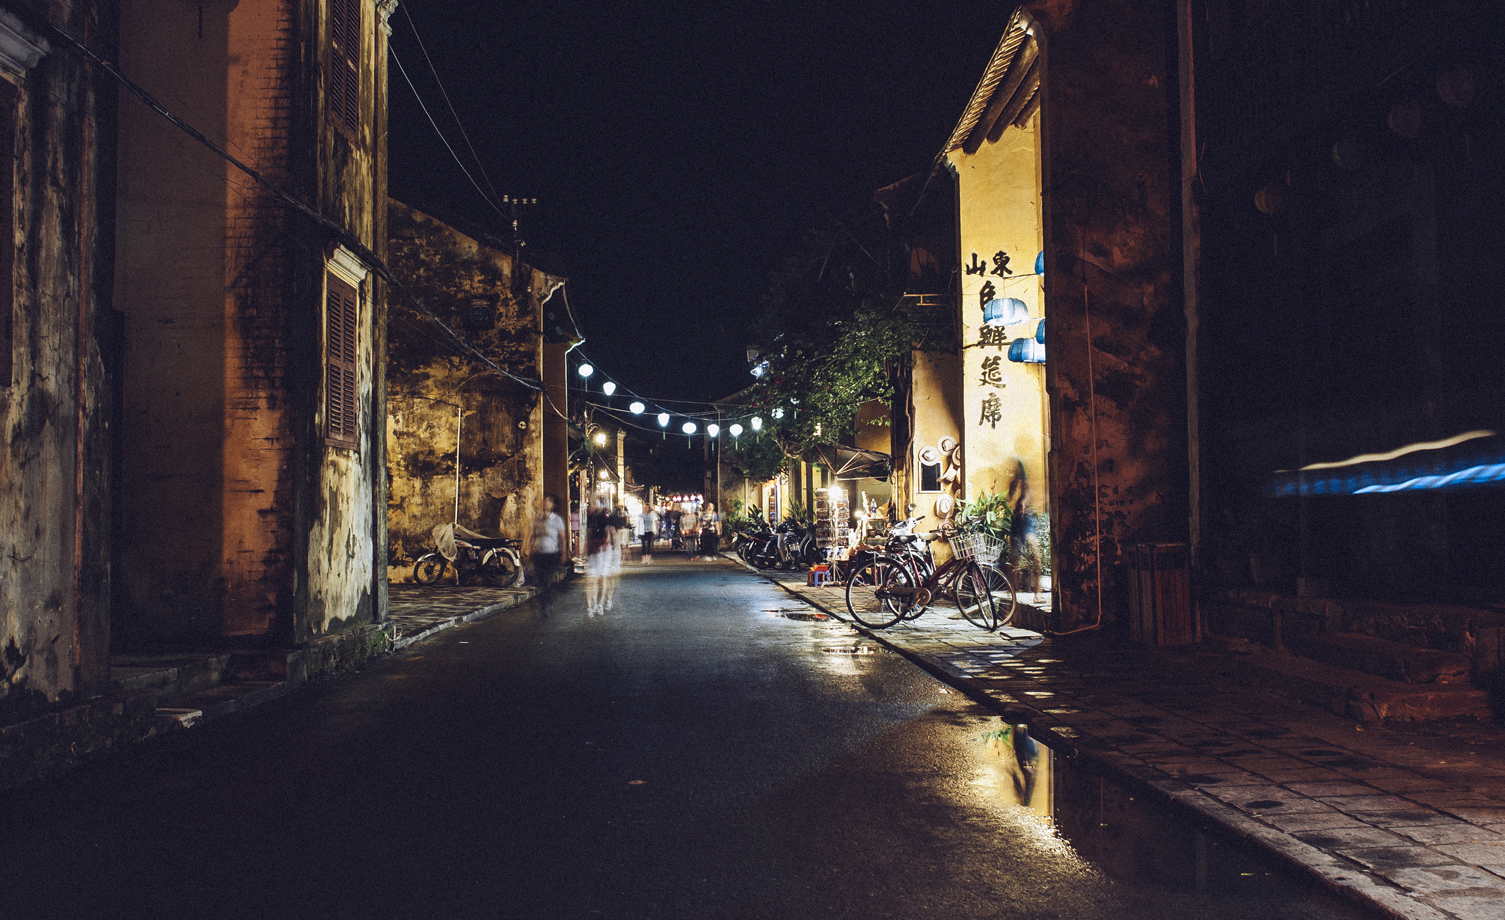
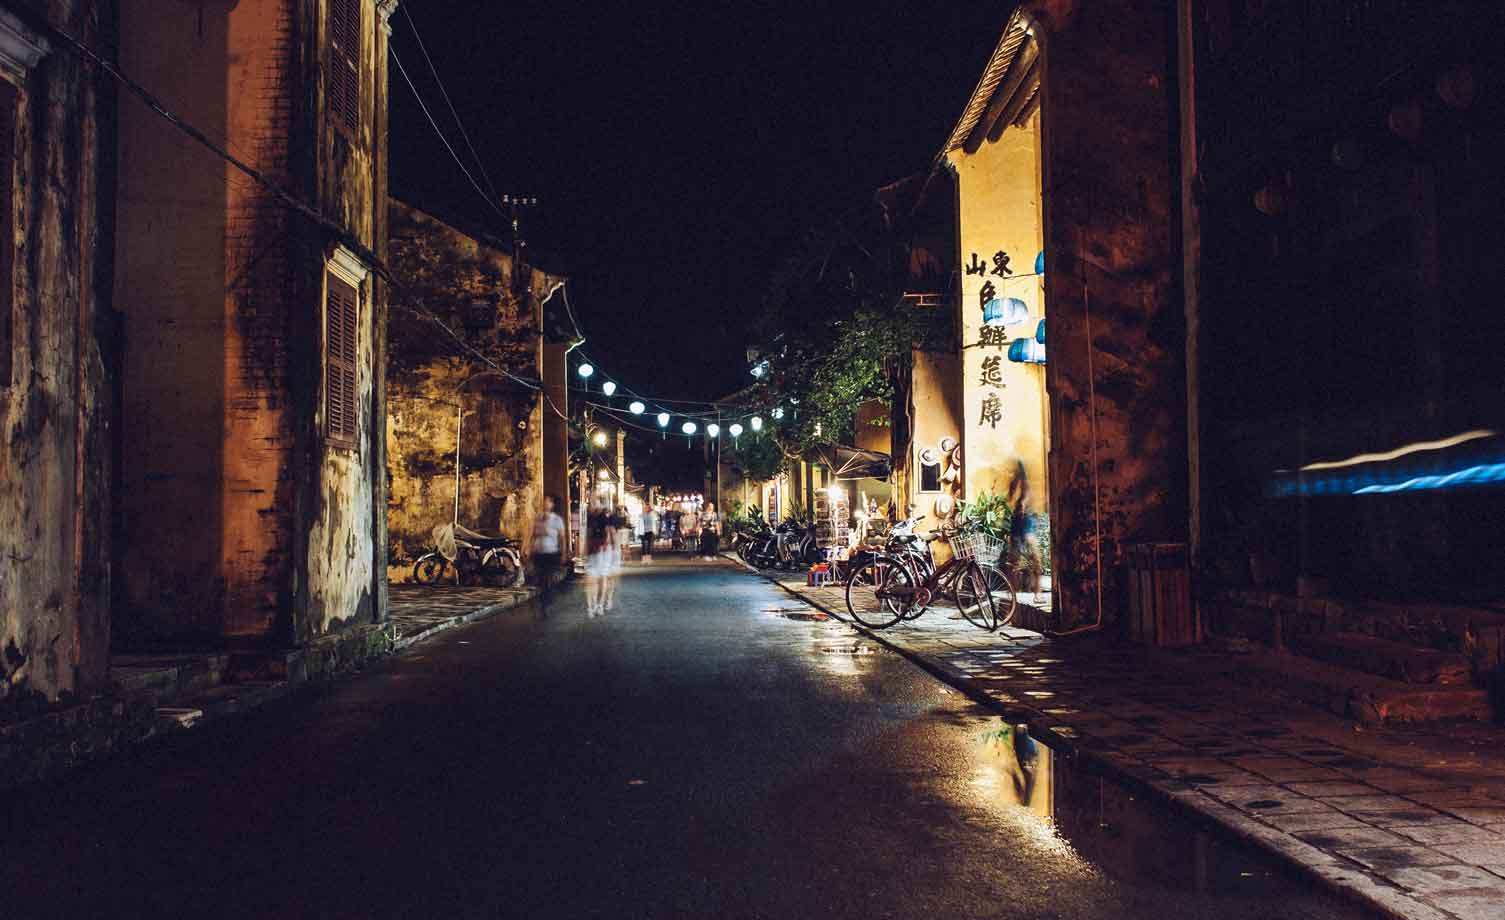
Fix footer markup and styling, change out images for compressed version

diff --git a/styles/style.css b/styles/style.css
@@ -1,1 +1,1 @@
-hr,input[type=search]{box-sizing:content-box}a,a:hover,body{color:#444}.wrapper,sub,sup{position:relative}.header,footer{background:#000}a,footer .icon,h2.titletag{transition:all .2s}*,:after,:before{box-sizing:border-box;-webkit-font-smoothing:antialiased;font-smoothing:antialiased;text-rendering:optimizeLegibility}.clearfix:after{visibility:hidden;display:block;font-size:0;content:" ";clear:both;height:0}* html .clearfix{zoom:1}html{font-family:sans-serif;-ms-text-size-adjust:100%;-webkit-text-size-adjust:100%}article,aside,details,figcaption,figure,footer,header,hgroup,main,nav,section,summary{display:block}audio,canvas,progress,video{display:inline-block;vertical-align:baseline}audio:not([controls]){display:none;height:0}[hidden],template{display:none}a{background:0 0;text-decoration:none}abbr[title]{border-bottom:1px dotted}dfn{font-style:italic}h1{font-size:2em;margin:.67em 0}mark{background:#ff0;color:#000}small{font-size:80%}sub,sup{font-size:75%;line-height:0;vertical-align:baseline}sup{top:-.5em}sub{bottom:-.25em}img{border:0}svg:not(:root){overflow:hidden}figure{margin:1em 40px}hr{height:0}code,kbd,pre,samp{font-family:monospace,monospace;font-size:1em}button,input,optgroup,select,textarea{color:inherit;font:inherit;margin:0}.nav li a,b,optgroup,strong{font-weight:700}.authorinfo,.nav,body,footer,h1.pagetitle{font-family:Lato,Helvetica,Arial,sans-serif}button{overflow:visible}button,select{text-transform:none}.banner .titlebox,.header,footer h2.contact,h2.featuredtitle{text-transform:uppercase}button,html input[type=button],input[type=reset],input[type=submit]{-webkit-appearance:button;cursor:pointer}button[disabled],html input[disabled]{cursor:default}input{line-height:normal}input[type=checkbox],input[type=radio]{box-sizing:border-box;padding:0}input[type=number]::-webkit-inner-spin-button,input[type=number]::-webkit-outer-spin-button{height:auto}input[type=search]{-webkit-appearance:textfield}input[type=search]::-webkit-search-cancel-button,input[type=search]::-webkit-search-decoration{-webkit-appearance:none}fieldset{border:1px solid silver;margin:0 2px;padding:.35em .625em .75em}table{border-collapse:collapse;border-spacing:0}td,th{padding:0}pre,textarea{overflow:auto}button::-moz-focus-inner,input::-moz-focus-inner,legend{border:0;padding:0}html{font-size:16px}body{margin:0}.clear:after,.clear:before{content:' ';display:table}.clear:after{clear:both}.clear{*zoom:1}.header,h2.titletag a{color:#fff}a:focus{outline:1px}a:active,a:hover{outline:0}input:focus{outline:0;border:1px solid #04A4CC}.wrapper{max-width:900px;width:95%;margin:0 auto;padding:0 10px}.header{position:fixed;top:0;z-index:500;width:100%;box-shadow:0 3px 15px rgba(0,0,0,.7)}.logo{width:20%;float:left;text-align:center}h2.titletag{font-size:25px;color:#fff;letter-spacing:-1px}h2.titletag a:focus,h2.titletag a:hover{color:#f1c40f}.nav{float:right}.nav ul{margin:0;padding:0}.nav li{padding-top:27px;margin:0;display:inline-block}.nav li a{font-size:20px;color:#fff;padding:20px}.nav li a:focus,.nav li a:hover{border-bottom:5px solid #902b15}h2.menubutton{display:none}footer{clear:both;border-top:10px solid #902b15;color:#fff;text-align:right}footer h2.contact{font-size:22px;text-align:left;margin:10px 0 0}footer .socialicons{width:40%;float:left;padding:25px 0}footer .icon{width:45px;height:45px;float:left;margin-right:10px;border-radius:50%;position:relative;bottom:0}footer .github{background:url(../img/icons/github.png);background-size:contain}footer .twitter{background:url(../img/icons/twitter.svg);background-size:contain}footer .linkedin{background:url(../img/icons/linkedin.svg) center}footer a:focus .icon,footer a:hover .icon{bottom:10px}footer p.email{padding:25px 0 45px;margin:0;font-size:26px}footer p.email a{color:#f1c40f;font-weight:700}footer p.email a:focus,footer p.email a:hover{border-bottom:3px solid #fff}h1.blogtitle{padding-top:100px;border-bottom:2px solid rgba(0,0,0,.3);font-size:60px}.blogposts{padding-bottom:50px}.authorinfo a,.postinfo a{line-height:37.5px;border-bottom:2px solid #902b15}.authorinfo a :focus,.authorinfo a:hover,.postinfo a :focus,.postinfo a:hover{border-bottom:2px solid #f1c40f}.authorinfo{font-size:18px}.section{margin-bottom:20px}main.contenthere{background:url(../img/whiteWall.png)}h1.pagetitle{padding:120px 0 20px;border-bottom:2px solid rgba(0,0,0,.3);font-size:60px}article.homepage,article.post{font-family:Garamond,Baskerville,"Baskerville Old Face","Hoefler Text","Times New Roman",serif}article.post{color:#333;font-size:22px;line-height:30px}article.post img{display:block;margin:0 auto}.banner{background:url(../img/chinatown.jpg) center no-repeat fixed #fff;background-size:cover;padding-top:250px;padding-bottom:150px;width:100%}.banner .titlebox{width:500px;margin:0 auto;text-align:center;color:#fff;text-shadow:2px 2px 0 #333}.banner .titlebox h1{margin-top:0;padding-top:40px;letter-spacing:-1px;font-size:45px}.banner .titlebox h3{margin:0;padding:0 20px 50px;font-size:20px}p.headline{margin:0 0 70px;padding:60px 0;font-size:60px;font-weight:900;border-bottom:2px solid rgba(0,0,0,.1)}article.homepage{padding:0;margin:0;font-size:25px;font-weight:500;line-height:40px;clear:both}article.homepage a{border-bottom:2px solid transparent}article.homepage a:focus,article.homepage a:hover{border-bottom:2px solid #902b15}article.homepage p a{border-bottom:2px solid rgba(0,0,0,.2)}.featuredwork{padding:70px 0;font-family:Lato,Helvetica,Arial,sans-serif;border-top:2px solid rgba(0,0,0,.1)}h2.featuredtitle{margin:0;padding:15px 0;font-size:25px;letter-spacing:7px;text-align:center;color:#333}.portfolio__item img{margin-bottom:20px;box-shadow:0 0 10px rgba(0,0,0,.3)}.portfolio__item ul.description{list-style:none;margin:0;padding:0;font-size:12px;line-height:18px}.portfolio__item ul.description li:nth-of-type(2){font-weight:700}.portfolio__item .technology{color:#902b15}.secondproject{margin:0 5%}p.description{font-weight:700;font-size:26px}.singleblog{padding:100px 0 40px}.singleblog h1{line-height:1}.singleblog h1 a{border-bottom:2px solid transparent}.singleblog a{border-bottom:2px solid #902b15}.singleblog a:focus,.singleblog a:hover{border-bottom:2px solid #f1c40f}.singleblog br{display:none}img{vertical-align:bottom;max-width:100%}@media only screen and (max-width:768px){.logo,.nav,.wrapper{width:100%}article.post,footer,main.contenthere{padding:10px}header{padding-bottom:10px}.nav li,.nav li a{padding:15px}.logo h2{font-size:30px}.nav{clear:both;background:rgba(0,0,0,.8);position:absolute;top:96px;display:none;margin:0 auto;transition:all .2s}.nav ul{text-align:center}.nav li{display:block;border-top:1px solid grey}.nav li a:hover{border-bottom:0 solid red}h2.menubutton{display:block;position:absolute;font-size:40px;padding:0;margin:0;top:18px;right:15px}h2.menubutton a{text-decoration:none;color:#f1c40f}.portfolio__item{margin-bottom:20px}.portfolio__item:nth-of-type(2),.portfolio__item:nth-of-type(3){margin-bottom:0}}@media only screen and (max-width:480px){.banner{padding-top:100px;padding-bottom:40px}.banner .titlebox{width:100%}.banner .titlebox h1{font-size:35px}.banner .titlebox h3{font-size:16px}p.headline{font-size:40px}article.homepage{font-size:20px;line-height:30px}div.third{width:100%;margin:0 0 20px}h1.pagetitle{font-size:40px}p.description{font-size:20px}h1.blogtitle{font-size:40px}h2.postinfo{font-size:25px}h3.authorinfo{font-size:16px}article.post{font-size:20px}footer .socialicons{width:100%;margin:0 auto}footer p.email{width:100%;text-align:center;padding:15px;clear:both}}::selection{background:#04A4CC;color:#FFF;text-shadow:none}::-webkit-selection{background:#04A4CC;color:#FFF;text-shadow:none}::-moz-selection{background:#04A4CC;color:#FFF;text-shadow:none}.alignnone{margin:5px 20px 20px 0}.aligncenter,div.aligncenter{display:block;margin:5px auto}.alignright{float:right;margin:5px 0 20px 20px}.alignleft{float:left;margin:5px 20px 20px 0}a img.alignright{float:right;margin:5px 0 20px 20px}a img.alignleft,a img.alignnone{margin:5px 20px 20px 0}a img.alignleft{float:left}a img.aligncenter{display:block;margin-left:auto;margin-right:auto}.wp-caption{background:#FFF;border:1px solid #F0F0F0;max-width:96%;padding:5px 3px 10px;text-align:center}.wp-caption.alignleft,.wp-caption.alignnone{margin:5px 20px 20px 0}.wp-caption.alignright{margin:5px 0 20px 20px}.wp-caption img{border:0;height:auto;margin:0;max-width:98.5%;padding:0;width:auto}.gallery-caption,.wp-caption .wp-caption-text{font-size:11px;line-height:17px;margin:0;padding:0 4px 5px}
+hr,input[type=search]{box-sizing:content-box}a,a:hover,body{color:#444}.wrapper,sub,sup{position:relative}a,h2.titletag{transition:all .2s}.header,footer{background:#000}*,:after,:before{box-sizing:border-box;-webkit-font-smoothing:antialiased;font-smoothing:antialiased;text-rendering:optimizeLegibility}.clearfix:after{visibility:hidden;display:block;font-size:0;content:" ";clear:both;height:0}* html .clearfix{zoom:1}html{font-family:sans-serif;-ms-text-size-adjust:100%;-webkit-text-size-adjust:100%}article,aside,details,figcaption,figure,footer,header,hgroup,main,nav,section,summary{display:block}audio,canvas,progress,video{display:inline-block;vertical-align:baseline}audio:not([controls]){display:none;height:0}[hidden],template{display:none}a{background:0 0;text-decoration:none}abbr[title]{border-bottom:1px dotted}dfn{font-style:italic}h1{font-size:2em;margin:.67em 0}mark{background:#ff0;color:#000}small{font-size:80%}sub,sup{font-size:75%;line-height:0;vertical-align:baseline}sup{top:-.5em}sub{bottom:-.25em}img{border:0}svg:not(:root){overflow:hidden}figure{margin:1em 40px}hr{height:0}code,kbd,pre,samp{font-family:monospace,monospace;font-size:1em}button,input,optgroup,select,textarea{color:inherit;font:inherit;margin:0}.nav li a,b,footer .email a,optgroup,strong{font-weight:700}.authorinfo,.nav,body,footer,h1.pagetitle{font-family:Lato,Helvetica,Arial,sans-serif}button{overflow:visible}button,select{text-transform:none}.banner .titlebox,.header,footer h2.contact,h2.featuredtitle{text-transform:uppercase}button,html input[type=button],input[type=reset],input[type=submit]{-webkit-appearance:button;cursor:pointer}button[disabled],html input[disabled]{cursor:default}input{line-height:normal}input[type=checkbox],input[type=radio]{box-sizing:border-box;padding:0}input[type=number]::-webkit-inner-spin-button,input[type=number]::-webkit-outer-spin-button{height:auto}input[type=search]{-webkit-appearance:textfield}input[type=search]::-webkit-search-cancel-button,input[type=search]::-webkit-search-decoration{-webkit-appearance:none}fieldset{border:1px solid silver;margin:0 2px;padding:.35em .625em .75em}table{border-collapse:collapse;border-spacing:0}td,th{padding:0}pre,textarea{overflow:auto}button::-moz-focus-inner,input::-moz-focus-inner,legend{border:0;padding:0}html{font-size:16px}body{margin:0}.clear:after,.clear:before{content:' ';display:table}.clear:after{clear:both}.clear{*zoom:1}.header,h2.titletag a{color:#fff}a:focus{outline:1px}a:active,a:hover{outline:0}input:focus{outline:0;border:1px solid #04A4CC}.wrapper{max-width:900px;width:95%;margin:0 auto;padding:0 10px}.header{position:fixed;top:0;z-index:500;width:100%;box-shadow:0 3px 15px rgba(0,0,0,.7)}.logo{width:20%;float:left;text-align:center}h2.titletag{font-size:25px;color:#fff;letter-spacing:-1px}h2.titletag a:focus,h2.titletag a:hover{color:#f1c40f}.nav{float:right}.nav ul{margin:0;padding:0}.nav li{padding-top:27px;margin:0;display:inline-block}.nav li a{font-size:20px;color:#fff;padding:20px}.nav li a:focus,.nav li a:hover{border-bottom:5px solid #902b15}h2.menubutton{display:none}footer .icon,footer .social__icon{display:inline-block}footer{clear:both;border-top:10px solid #902b15;color:#fff;text-align:right}footer h2.contact{font-size:22px;text-align:left;margin:10px 0 0}footer .email{padding-bottom:45px;font-size:26px;text-align:left}footer .email a{color:#f1c40f}footer .email a:focus,footer .email a:hover{border-bottom:3px solid #fff}footer .socialicons{padding:25px 0;text-align:right}footer .icon{width:45px;height:45px;margin-right:10px;border-radius:50%}footer .icon:focus,footer .icon:hover{box-shadow:10px 5px #902b15}footer .github{background:url(../img/icons/github.png);background-size:contain}footer .twitter{background:url(../img/icons/twitter.svg);background-size:contain}footer .linkedin{background:url(../img/icons/linkedin.svg) center}footer a:focus .icon,footer a:hover .icon{bottom:10px}h1.blogtitle{padding-top:100px;border-bottom:2px solid rgba(0,0,0,.3);font-size:60px}.blogposts{padding-bottom:50px}.authorinfo a,.postinfo a{line-height:37.5px;border-bottom:2px solid #902b15}.authorinfo a :focus,.authorinfo a:hover,.postinfo a :focus,.postinfo a:hover{border-bottom:2px solid #f1c40f}.authorinfo{font-size:18px}.section{margin-bottom:20px}main.contenthere{background:url(../img/whiteWall.png)}h1.pagetitle{padding:120px 0 20px;border-bottom:2px solid rgba(0,0,0,.3);font-size:60px}article.homepage,article.post{font-family:Garamond,Baskerville,"Baskerville Old Face","Hoefler Text","Times New Roman",serif}article.post{color:#333;font-size:22px;line-height:30px}article.post img{display:block;margin:0 auto}.banner{background:url(../img/chinatown.jpg) center no-repeat fixed #fff;background-size:cover;padding-top:250px;padding-bottom:150px;width:100%}.banner .titlebox{width:500px;margin:0 auto;text-align:center;color:#fff;text-shadow:2px 2px 0 #333}.banner .titlebox h1{margin-top:0;padding-top:40px;letter-spacing:-1px;font-size:45px}.banner .titlebox h3{margin:0;padding:0 20px 50px;font-size:20px}p.headline{margin:0 0 70px;padding:60px 0;font-size:60px;font-weight:900;border-bottom:2px solid rgba(0,0,0,.1)}article.homepage{padding:0;margin:0;font-size:25px;font-weight:500;line-height:40px;clear:both}article.homepage a{border-bottom:2px solid transparent}article.homepage a:focus,article.homepage a:hover{border-bottom:2px solid #902b15}article.homepage p a{border-bottom:2px solid rgba(0,0,0,.2)}.featuredwork{padding:70px 0;font-family:Lato,Helvetica,Arial,sans-serif;border-top:2px solid rgba(0,0,0,.1)}h2.featuredtitle{margin:0;padding:15px 0;font-size:25px;letter-spacing:7px;text-align:center;color:#333}.portfolio__item img{margin-bottom:20px;box-shadow:0 0 10px rgba(0,0,0,.3)}.portfolio__item ul.description{list-style:none;margin:0;padding:0;font-size:12px;line-height:18px}.portfolio__item ul.description li:nth-of-type(2){font-weight:700}.portfolio__item .technology{color:#902b15}.secondproject{margin:0 5%}p.description{font-weight:700;font-size:26px}.singleblog{padding:100px 0 40px}.singleblog h1{line-height:1}.singleblog h1 a{border-bottom:2px solid transparent}.singleblog a{border-bottom:2px solid #902b15}.singleblog a:focus,.singleblog a:hover{border-bottom:2px solid #f1c40f}.singleblog br{display:none}img{vertical-align:bottom;max-width:100%}@media only screen and (max-width:768px){.logo,.nav,.wrapper{width:100%}.footer,.footer .contact,.footer .email,.nav ul{text-align:center}article.post,footer,main.contenthere{padding:10px}header{padding-bottom:10px}.nav li,.nav li a{padding:15px}.logo h2{font-size:30px}.nav{clear:both;background:rgba(0,0,0,.8);position:absolute;top:96px;display:none;margin:0 auto;transition:all .2s}.nav li{display:block;border-top:1px solid grey}.nav li a:hover{border-bottom:0 solid red}h2.menubutton{display:block;position:absolute;font-size:40px;padding:0;margin:0;top:18px;right:15px}h2.menubutton a{text-decoration:none;color:#f1c40f}.portfolio__item{margin-bottom:20px}.portfolio__item:nth-of-type(2),.portfolio__item:nth-of-type(3){margin-bottom:0}.footer .email{margin:0;padding-top:10px}.footer .socialicons{text-align:center;margin:0;padding:0}}@media only screen and (max-width:480px){.banner{padding-top:100px;padding-bottom:40px}.banner .titlebox{width:100%}.banner .titlebox h1{font-size:35px}.banner .titlebox h3{font-size:16px}p.headline{font-size:40px}article.homepage{font-size:20px;line-height:30px}div.third{width:100%;margin:0 0 20px}h1.pagetitle{font-size:40px}p.description{font-size:20px}h1.blogtitle{font-size:40px}h2.postinfo{font-size:25px}h3.authorinfo{font-size:16px}article.post{font-size:20px}footer .email{width:100%;padding:15px 0;clear:both;font-size:22px}footer .socialicons{width:100%;margin:0 auto}}::selection{background:#04A4CC;color:#FFF;text-shadow:none}::-webkit-selection{background:#04A4CC;color:#FFF;text-shadow:none}::-moz-selection{background:#04A4CC;color:#FFF;text-shadow:none}.alignnone{margin:5px 20px 20px 0}.aligncenter,div.aligncenter{display:block;margin:5px auto}.alignright{float:right;margin:5px 0 20px 20px}.alignleft{float:left;margin:5px 20px 20px 0}a img.alignright{float:right;margin:5px 0 20px 20px}a img.alignleft,a img.alignnone{margin:5px 20px 20px 0}a img.alignleft{float:left}a img.aligncenter{display:block;margin-left:auto;margin-right:auto}.wp-caption{background:#FFF;border:1px solid #F0F0F0;max-width:96%;padding:5px 3px 10px;text-align:center}.wp-caption.alignleft,.wp-caption.alignnone{margin:5px 20px 20px 0}.wp-caption.alignright{margin:5px 0 20px 20px}.wp-caption img{border:0;height:auto;margin:0;max-width:98.5%;padding:0;width:auto}.gallery-caption,.wp-caption .wp-caption-text{font-size:11px;line-height:17px;margin:0;padding:0 4px 5px}

diff --git a/styles/style.scss b/styles/style.scss
@@ -170,21 +170,42 @@ footer {
 		margin: 10px 0 0;
 	}
 
-	.socialicons {
-		width: 40%;
-		float: left;
-		padding: 25px 0 25px;
+	.email {
+		padding-bottom: 45px;
+		font-size: 26px;
+		text-align: left;
+		
+		a {
+			color: $yellow;
+			font-weight: bold;
+		}
+
+		a:hover,
+		a:focus {
+			border-bottom: 3px solid white;
+		}
 	}
 
+	.socialicons {
+		padding: 25px 0;
+		text-align: right;
+	}
+
+		.social__icon {
+			display: inline-block;
+		}
+
 	.icon {
+		display: inline-block;
 		width: 45px;
 		height: 45px;
-		float: left;
 		margin-right: 10px;
 		border-radius: 50%;
-		transition: all 0.2s;
-		position: relative;
-		bottom: 0;
+
+		&:hover,
+		&:focus {
+			box-shadow: 10px 5px $red;
+		}
 	}
 
 	.github {
@@ -207,21 +228,7 @@ footer {
 	}
 
 
-	p.email {
-		padding: 25px 0 45px;
-		margin: 0;
-		font-size: 26px;
-		
-		a {
-			color: $yellow;
-			font-weight: bold;
-		}
-
-		a:hover,
-		a:focus {
-			border-bottom: 3px solid white;
-		}
-	}
+	
 }
 
 

diff --git a/styles/_phoneQuery.scss b/styles/_phoneQuery.scss
@@ -21,9 +21,6 @@
 		}
 	}
 
-	
-
-
 // content starts here
 
 	// home page specific
@@ -73,18 +70,17 @@
 
 	footer {
 
+		.email {
+			width: 100%;
+			padding: 15px 0;
+			clear: both;
+			font-size: 22px;
+		}
+
 		.socialicons {
 			width: 100%;
 			margin: 0 auto;
 			
-		}
-
-		p.email {
-			width: 100%;
-			text-align: center;
-			
-			padding: 15px;
-			clear: both;
 		}
 	}	
 

diff --git a/styles/_portraitTablet.scss b/styles/_portraitTablet.scss
@@ -77,5 +77,25 @@
 		}
 	}
 
+	.footer {
+		text-align: center;
+
+		.contact {
+			text-align: center;
+		}
+
+		.email {
+			margin: 0;
+			text-align: center;
+			padding-top: 10px;
+		}
+
+		.socialicons {
+			text-align: center;
+			margin: 0;
+			padding: 0;
+		}
+	}
+
 }
 // CLOSE PORTRAIT TABLET

diff --git a/footer.php b/footer.php
@@ -1,28 +1,35 @@
 			<!-- footer -->
-			<footer class="footer" id="contact" role="contentinfo">
+			<footer class="footer clearfix" id="contact" role="contentinfo">
 			
 				<div class="wrapper">
 
-				<h2 class="contact">Find me</h2>
-
-					<div class="socialicons">
-						<a href="http://www.github.com/proudfeet" alt="Github" title="Github">
-							<div class="icon github"></div>
-						</a>
-						<a href="http://www.twitter.com/proudfeet_" alt="Twitter" title="Twitter">
-							<div class="icon twitter"></div>
-						</a>
-						<a href="http://ca.linkedin.com/pub/simon-proudfoot/33/1b6/8b4/" alt="LinkedIn" title="LinkedIn">
-							<div class="icon linkedin"></div>
-						</a>
-					</div>
-
+				<h2 class="contact columns desk-twelve">Find me</h2>
 
 					<!-- copyright -->
-					<p class="email">
-						<a href="mailto:hello@proudfeet.io" title="Mail to hello@proudfeet.io, Simon Proudfoot">hello@proudfeet.io</a>
+					<p class="email columns desk-six tablet-twelve">
+						<a href="mailto:simon.d.proudfoot@gmail.com" title="Mail to simon.d.proudfoot@gmail.com, Simon Proudfoot">simon.d.proudfoot@gmail.com</a>
 					</p>
 					<!-- /copyright -->
+
+					<!-- social icons -->
+					<ul class="socialicons columns desk-six tablet-twelve">
+						<li class="social__icon">
+							<a class="icon github" href="http://www.github.com/proudfeet" alt="Github" title="Github">
+							</a>
+						</li>
+						
+						<li class="social__icon">
+							<a class="icon twitter" href="http://www.twitter.com/proudfeet_" alt="Twitter" title="Twitter">
+							</a>
+						</li>
+						
+						<li class="social__icon">
+							<a class="icon linkedin" href="http://ca.linkedin.com/pub/simon-proudfoot/33/1b6/8b4/" alt="LinkedIn" title="LinkedIn">
+							</a>
+						</li>
+					</ul>
+					<!--  /social icons -->
+
 				</div>
 			</footer>
 			<!-- /footer -->
